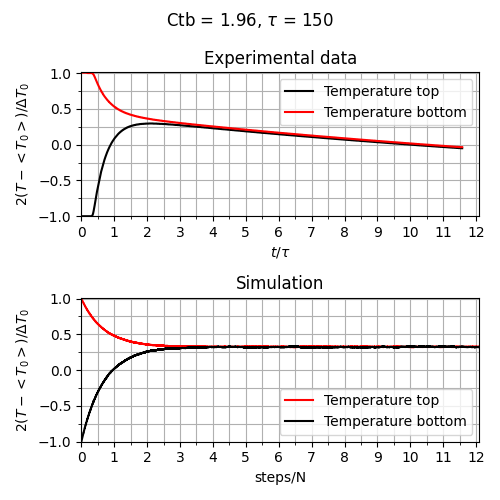
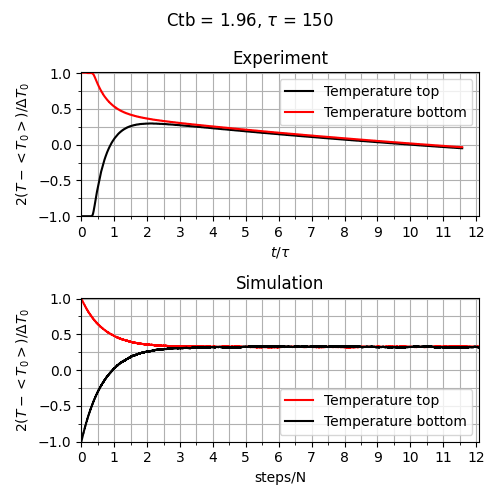
updated titles

diff --git a/Obligs/Oblig 1/diffusion_with_loss.py b/Obligs/Oblig 1/diffusion_with_loss.py
@@ -69,7 +69,7 @@ y_ticks_min = np.arange(ymin, ymax, 0.25)
 fig = plt.figure(figsize=(5, 5))
 fig.suptitle(rf"Ctb = {Ctb}, $\tau$ = {tau}$, $C_$loss = {C_loss}$")
 plt.subplot(2, 1, 1)
-plt.title("Experimental data")
+plt.title("Experiment")
 plt.plot(t, 2 * (T1 - Tmean0) / DT0, color='k')
 plt.plot(t, 2 * (T2 - Tmean0) / DT0, color='r')
 plt.axis([xmin, xmax, ymin, ymax])

diff --git a/Obligs/Oblig 1/diffusion.py b/Obligs/Oblig 1/diffusion.py
@@ -55,7 +55,7 @@ y_ticks_min = np.arange(ymin, ymax, 0.25)
 fig = plt.figure(figsize=(5, 5))
 fig.suptitle(rf"Ctb = {Ctb}, $\tau$ = {tau}")
 plt.subplot(2, 1, 1)
-plt.title("Experimental data")
+plt.title("Experiment")
 plt.plot(t, 2 * (T1 - Tmean0) / DT0, color='k')
 plt.plot(t, 2 * (T2 - Tmean0) / DT0, color='r')
 plt.axis([xmin, xmax, ymin, ymax])
